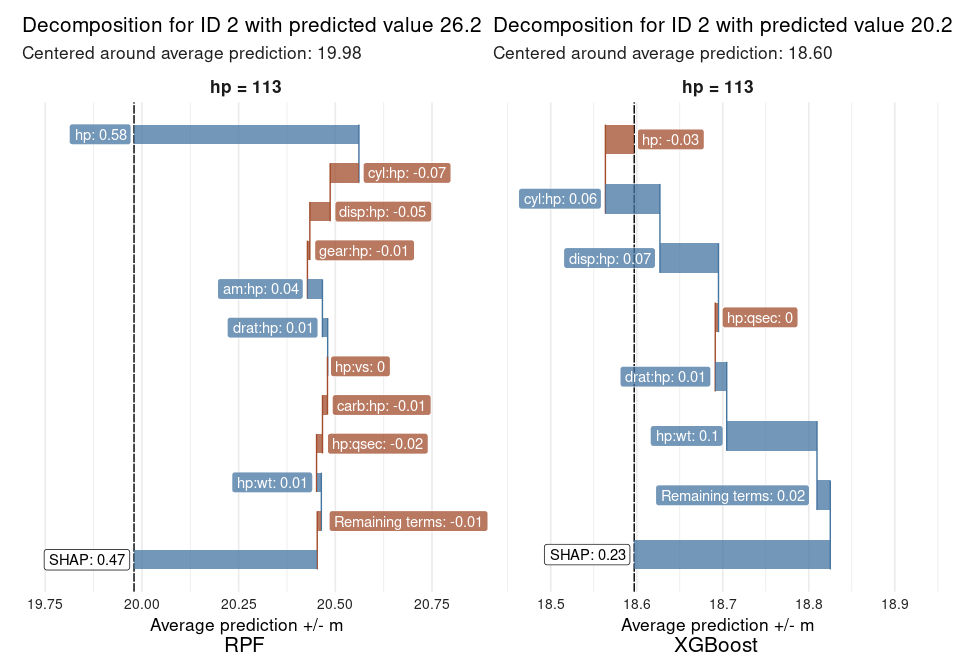
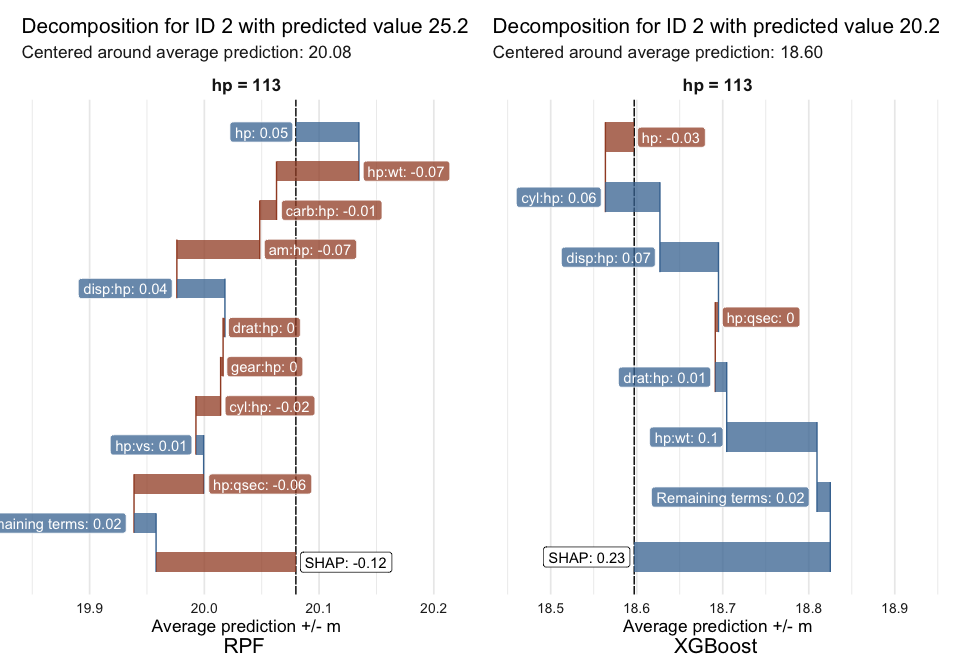
Resolve merge conflict

diff --git a/README.md b/README.md
@@ -115,12 +115,12 @@ cbind(pred_xgb, sum_m_xgb, sum_shap_xgb)
 # For RPF
 cbind(pred_rpf, sum_m_rpf)
 #>      pred_rpf sum_m_rpf
-#> [1,] 28.82532  28.82532
-#> [2,] 26.15614  26.15614
-#> [3,] 18.21634  18.21634
-#> [4,] 19.03077  19.03077
-#> [5,] 14.40612  14.40612
-#> [6,] 23.40146  23.40146
+#> [1,] 29.69958  29.69958
+#> [2,] 25.24842  25.24842
+#> [3,] 19.35783  19.35783
+#> [4,] 20.75434  20.75434
+#> [5,] 15.95185  15.95185
+#> [6,] 24.86277  24.86277
 ```
 
 ### Variable Importances
@@ -136,11 +136,11 @@ vi_xgb <- glex_vi(glex_xgb)
 vi_rpf[1:5, c("degree", "term", "m")]
 #>    degree   term         m
 #>     <int> <char>     <num>
-#> 1:      1     hp 1.7444502
-#> 2:      1     wt 0.9335066
-#> 3:      1   drat 0.9220123
-#> 4:      1   disp 0.9151442
-#> 5:      1    cyl 0.4683222
+#> 1:      1     wt 1.4747963
+#> 2:      1     hp 1.3103943
+#> 3:      1   drat 1.0086698
+#> 4:      1     am 0.7842427
+#> 5:      1   disp 0.7641779
 vi_xgb[1:5, c("degree", "term", "m")]
 #>    degree   term         m
 #>     <int> <char>     <num>
@@ -166,7 +166,7 @@ p_vi2 <- autoplot(vi_xgb, threshold = .05) +
 
 p_vi1 + p_vi2 +
   plot_annotation(title = "Variable importance scores by term") & 
-  theme(plot.tag.position = "bottomleft")
+  theme(plot.tag.position = "top")
 ```
 
 <img src="man/figures/README-glex_vi-plot-1.png" width="100%" /> We can
@@ -199,7 +199,8 @@ p1 <- autoplot(glex_rpf, "hp") + labs(subtitle = "RPF")
 p2 <- autoplot(glex_xgb, "hp") + labs(subtitle = "XGBoost")
 
 p1 + p2 + 
-  plot_annotation(title = "Main effect for 'hp'")
+  plot_annotation(title = "Main effect for 'hp'") & 
+  theme(plot.tag.position = "top")
 ```
 
 <img src="man/figures/README-plot_components-1.png" width="100%" />
@@ -210,7 +211,8 @@ p1 <- autoplot(glex_rpf, c("hp", "wt")) + labs(subtitle = "RPF")
 p2 <- autoplot(glex_xgb, c("hp", "wt")) + labs(subtitle = "XGBoost")
 
 p1 + p2 + 
-  plot_annotation(title = "Two-way effects for 'hp' and 'wt'")
+  plot_annotation(title = "Two-way effects for 'hp' and 'wt'") & 
+  theme(plot.tag.position = "top")
 ```
 
 <img src="man/figures/README-plot_components-2.png" width="100%" />
@@ -233,7 +235,8 @@ p1 <- glex_explain(glex_rpf, id = 2, predictors = "hp", max_interaction = 2) +
 p2 <- glex_explain(glex_xgb, id = 2, predictors = "hp", max_interaction = 2) + 
   labs(tag = "XGBoost")
 
-p1 + p2 & theme(plot.tag.position = "bottom")
+p1 + p2 & theme(plot.tag.position = "bottom") & 
+  theme(plot.tag.position = "bottom")
 ```
 
 <img src="man/figures/README-glex_explain-1.png" width="100%" />
